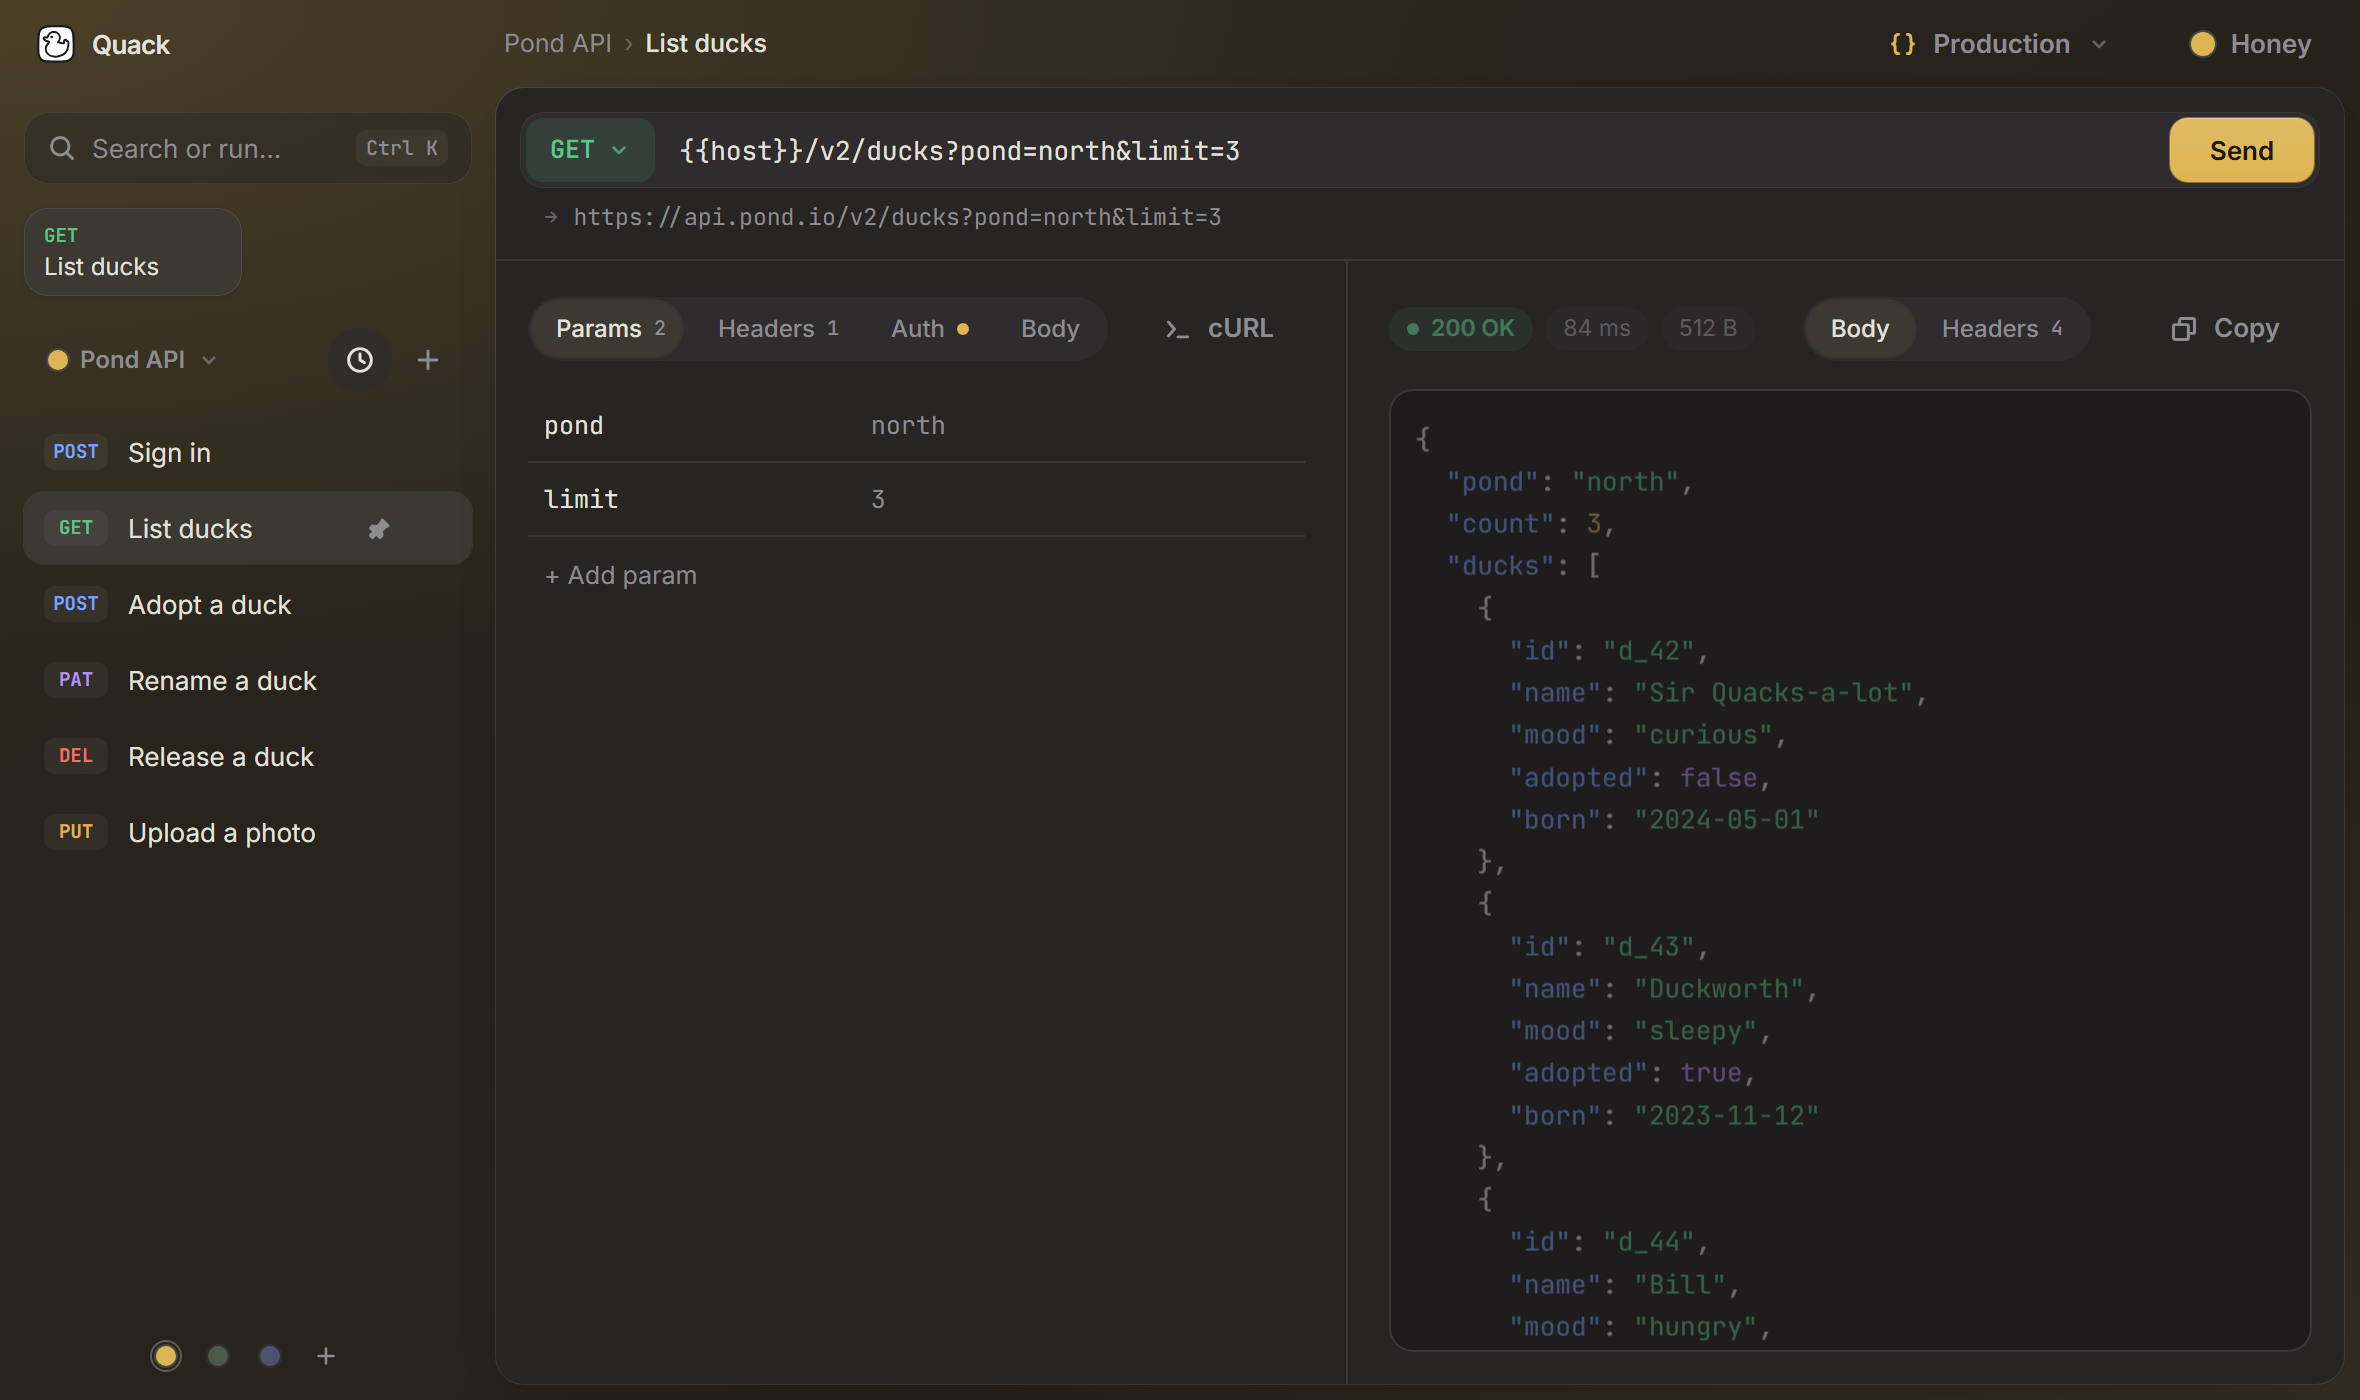
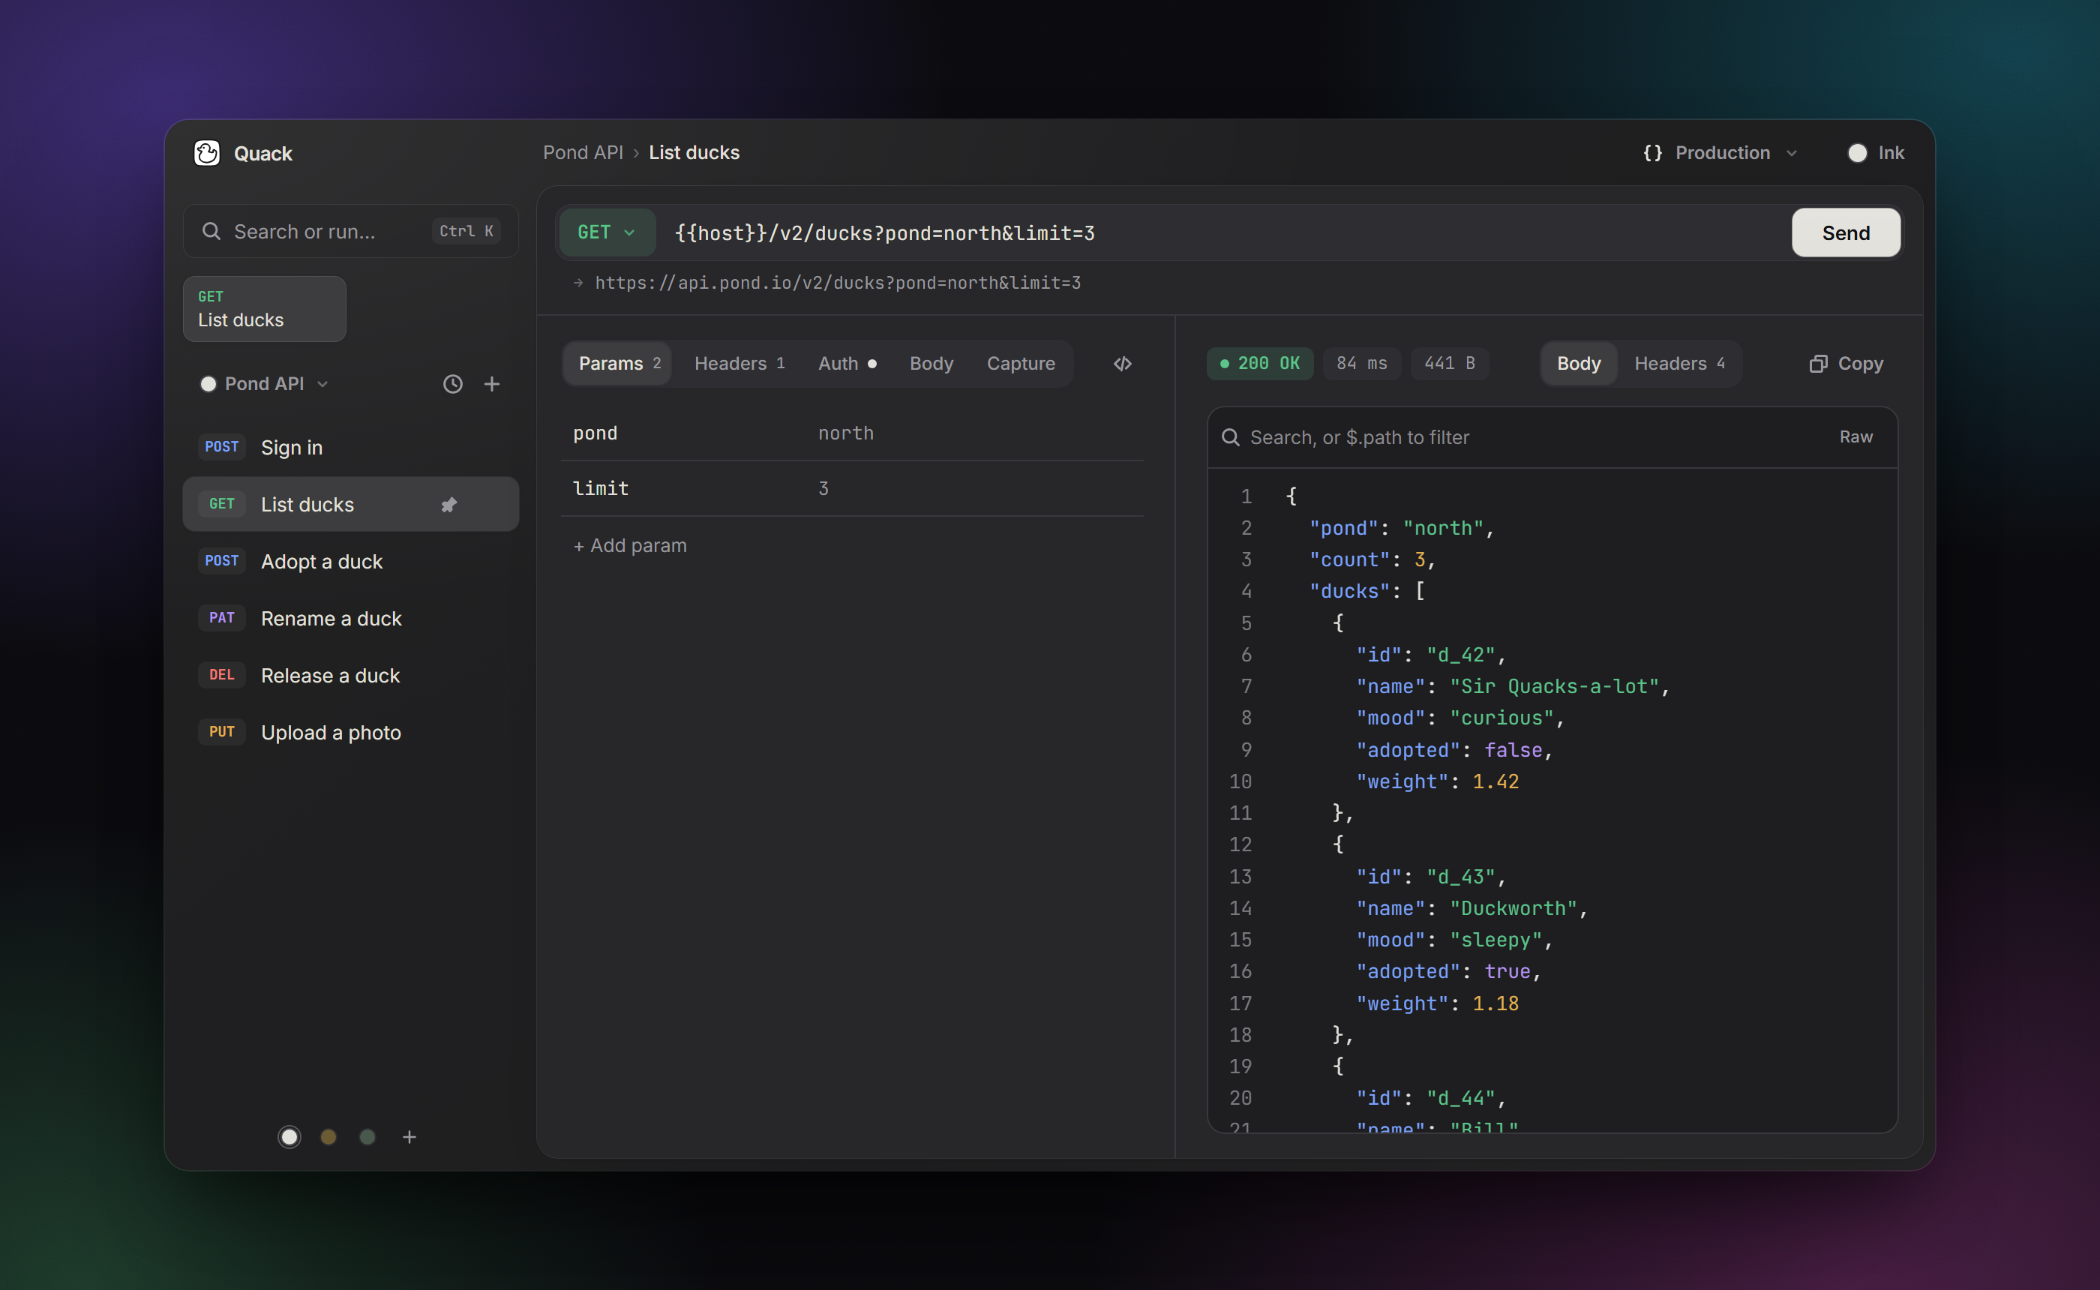
Retake screenshots in Ink and add a themes section

diff --git a/README.md b/README.md
@@ -36,7 +36,7 @@
 
 <picture>
   <source media="(prefers-color-scheme: dark)" srcset="docs/screenshot-dark.png">
-  <img alt="Quack showing a GET request with query params on the left and a highlighted JSON response on the right" src="docs/screenshot-light.png">
+  <img alt="Quack in its Ink theme, showing a GET request with query params on the left and a highlighted JSON response with line numbers on the right" src="docs/screenshot-light.png">
 </picture>
 
 <br>
@@ -134,6 +134,16 @@ Leaving is just as easy: export any space, back up everything in one file, or co
 **Light on your machine**
 - A native app built on Tauri and Rust, not Electron
 - The Windows installer is about 3 MB
+
+## Every space dresses differently
+
+Give each space its own theme and you'll never fire a request at production thinking it was staging.
+Ink is the default. Honey, Sage and Periwinkle are one click away, and every theme comes in light and dark.
+
+<picture>
+  <source media="(prefers-color-scheme: dark)" srcset="docs/themes-dark.png">
+  <img alt="Four Quack windows stacked, one per theme: Periwinkle, Sage, Honey and Ink" src="docs/themes-light.png">
+</picture>
 
 ## Keyboard first
 
